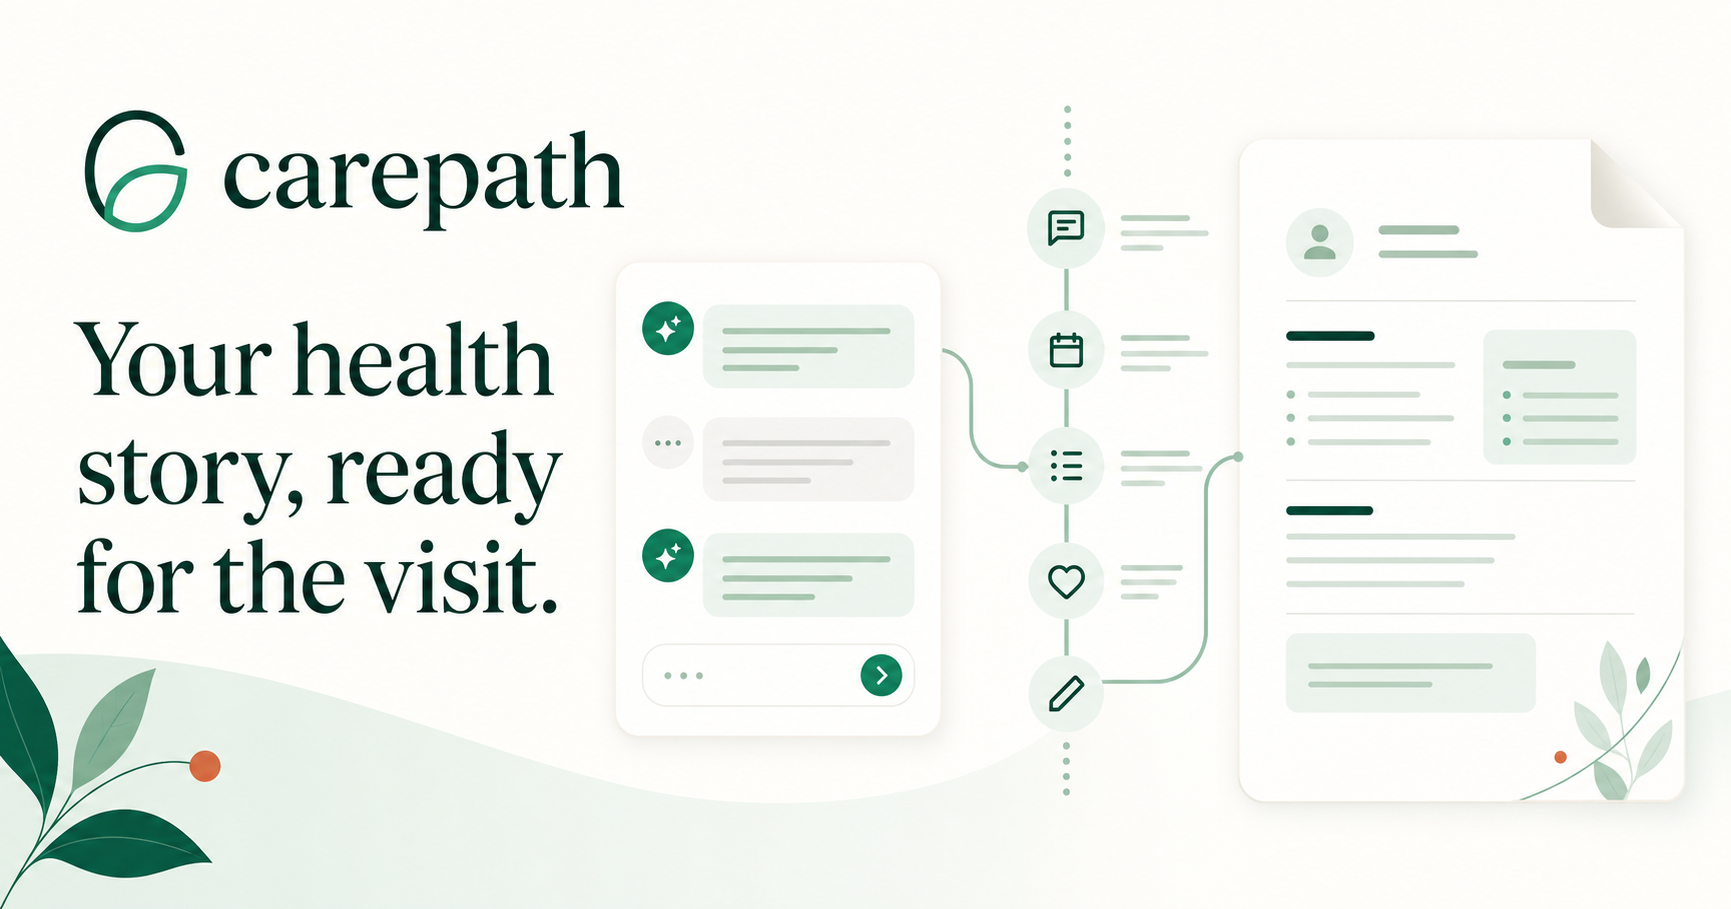
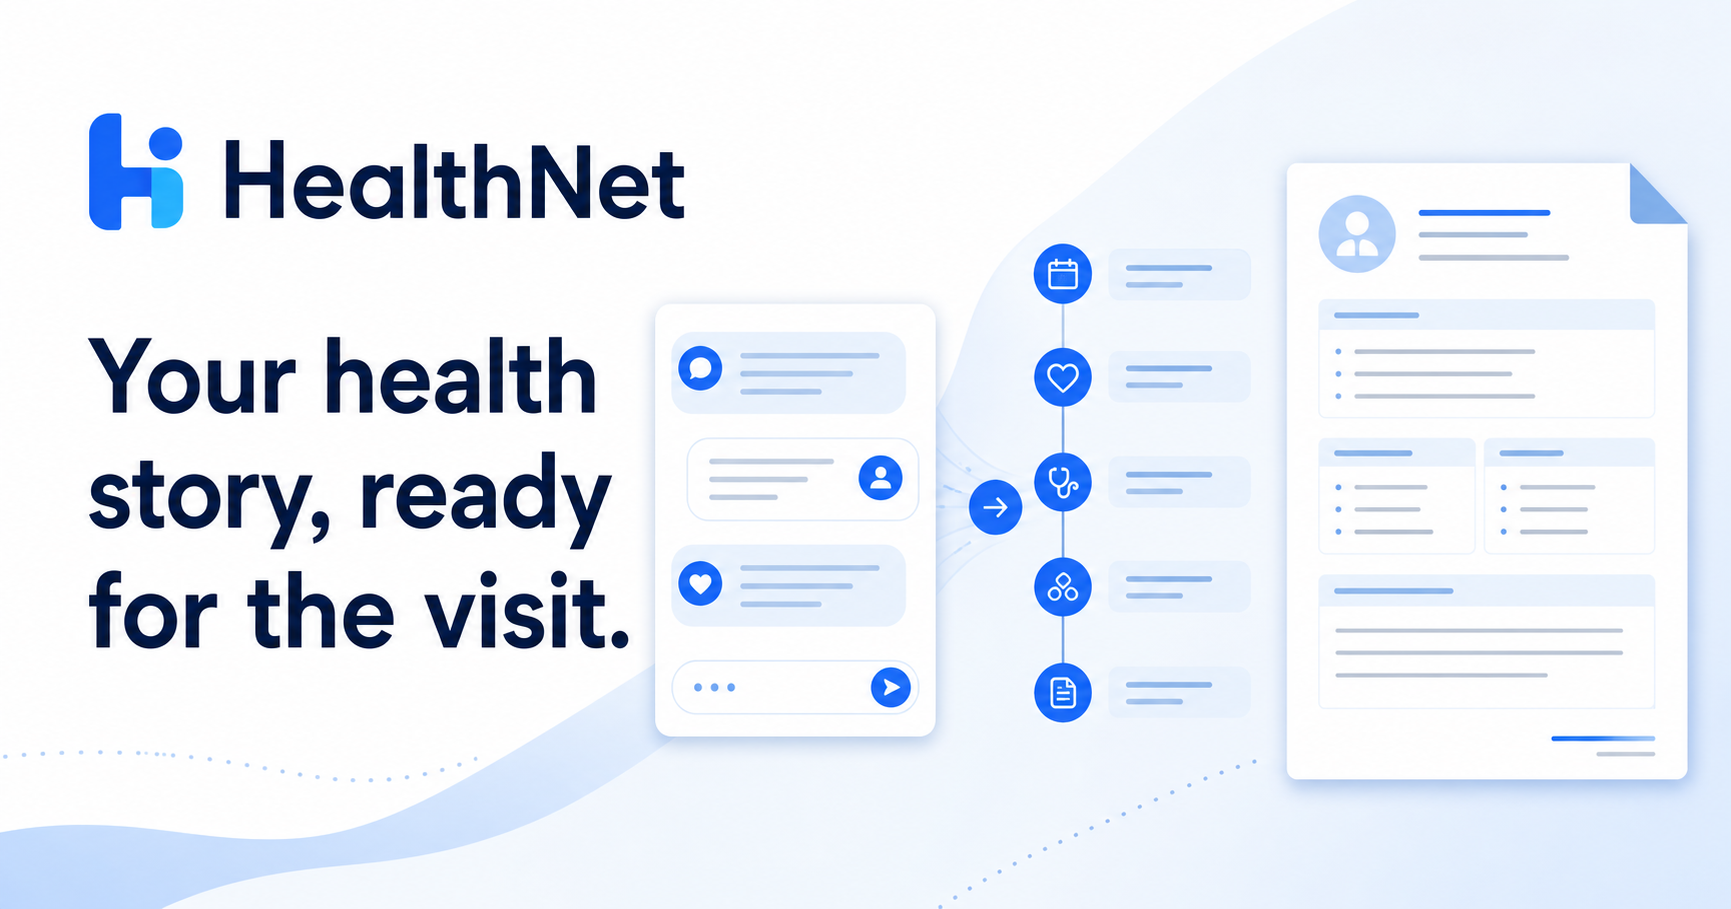
Rebrand Carepath as HealthNet

Changed region(s): [[0.3744, 0.154, 1.0, 1.0], [0.0, 0.3388, 0.5615, 1.0], [0.0312, 0.1232, 0.4055, 0.2772]]

diff --git a/app/globals.css b/app/globals.css
@@ -1,15 +1,15 @@
 @import "tailwindcss";
 
 :root {
-  --ink: #17372f;
-  --muted: #667871;
-  --line: #dde7e2;
+  --ink: #102a43;
+  --muted: #61758a;
+  --line: #dce7f3;
   --paper: #ffffff;
-  --canvas: #f4f7f5;
-  --mint: #dcefe6;
-  --green: #19715b;
-  --green-dark: #105845;
-  --orange: #e57c46;
+  --canvas: #f4f8fd;
+  --mint: #e6f0ff;
+  --green: #2563eb;
+  --green-dark: #174ea6;
+  --orange: #38bdf8;
 }
 
 * { box-sizing: border-box; }
@@ -26,7 +26,7 @@ button { color: inherit; }
 .nav-label { margin: 0 12px 9px; color: #95a39e; font-size: 10px; letter-spacing: 1.3px; font-weight: 700; text-transform: uppercase; }
 .coming-label { margin-top: 25px; }
 .main-nav button { height: 44px; border: 0; background: transparent; border-radius: 10px; display: flex; align-items: center; gap: 12px; padding: 0 12px; font-size: 13px; font-weight: 590; color: #536861; cursor: pointer; text-align: left; }
-.main-nav button:hover:not(:disabled) { background: #eef5f1; }
+.main-nav button:hover:not(:disabled) { background: #edf4ff; }
 .main-nav button.active { color: var(--green-dark); background: var(--mint); font-weight: 700; }
 .main-nav button:disabled { color: #aab5b1; cursor: default; }
 .nav-icon { width: 20px; height: 20px; display: grid; place-items: center; font-size: 17px; font-weight: 500; }
@@ -35,7 +35,7 @@ button { color: inherit; }
 .privacy-note strong { font-size: 11px; display: block; }
 .privacy-note p { font-size: 10px; line-height: 1.45; color: var(--muted); margin: 3px 0 0; }
 .profile { display: flex; align-items: center; gap: 9px; margin-top: 13px; padding: 13px 7px 2px; border-top: 1px solid var(--line); }
-.avatar { width: 33px; height: 33px; border-radius: 50%; display: grid; place-items: center; background: #eadfd7; color: #79513d; font-size: 11px; font-weight: 700; }
+.avatar { width: 33px; height: 33px; border-radius: 50%; display: grid; place-items: center; background: #dceafe; color: #2457a7; font-size: 11px; font-weight: 700; }
 .profile div:nth-child(2) { min-width: 0; flex: 1; }
 .profile strong, .profile span { display: block; white-space: nowrap; overflow: hidden; text-overflow: ellipsis; }
 .profile strong { font-size: 11px; }.profile span { color: #8b9994; font-size: 9px; margin-top: 2px; }
@@ -64,12 +64,12 @@ button { color: inherit; }
 .conversation-card, .timeline-card { background: white; border: 1px solid var(--line); border-radius: 15px; box-shadow: 0 8px 32px rgba(36,67,56,.05); min-height: 570px; overflow: hidden; }
 .conversation-card { display: flex; flex-direction: column; }
 .conversation-header { height: 65px; padding: 0 18px; border-bottom: 1px solid #edf1ef; display: flex; align-items: center; gap: 11px; }
-.ai-orb { width: 34px; height: 34px; background: #e2f1e9; border-radius: 12px 12px 12px 4px; display: grid; place-items: center; }
+.ai-orb { width: 34px; height: 34px; background: #eaf2ff; border-radius: 12px 12px 12px 4px; display: grid; place-items: center; }
 .ai-orb span { width: 12px; height: 12px; border-radius: 50%; border: 3px solid var(--green); border-left-color: #75af9e; }
 .conversation-header > div:nth-child(2) { flex: 1; }
 .conversation-header strong, .conversation-header span { display: block; }
 .conversation-header strong { font-size: 12px; }.conversation-header span { margin-top: 3px; color: #8a9893; font-size: 9px; }
-.conversation-header span i { display: inline-block; width: 5px; height: 5px; background: #42a27f; border-radius: 50%; margin-right: 4px; }
+.conversation-header span i { display: inline-block; width: 5px; height: 5px; background: #3b82f6; border-radius: 50%; margin-right: 4px; }
 .conversation-header button { border: 0; background: none; color: #89958f; cursor: pointer; }
 .messages { flex: 1; padding: 17px 21px 24px; overflow: auto; max-height: 430px; }
 .date-divider { text-align: center; position: relative; margin: 0 0 18px; }
@@ -78,11 +78,11 @@ button { color: inherit; }
 .message-row { display: flex; gap: 8px; margin: 12px 0; align-items: flex-start; }
 .message-row.patient { justify-content: flex-end; }
 .mini-orb { flex: 0 0 24px; width: 24px; height: 24px; display: grid; place-items: center; background: var(--green); color: white; border-radius: 8px 8px 8px 3px; font-size: 9px; font-weight: 700; }
-.message-bubble { max-width: 78%; padding: 10px 13px; border-radius: 5px 13px 13px 13px; background: #f0f5f2; font-size: 11px; line-height: 1.5; color: #355149; }
+.message-bubble { max-width: 78%; padding: 10px 13px; border-radius: 5px 13px 13px 13px; background: #f0f5fb; font-size: 11px; line-height: 1.5; color: #314e68; }
 .patient .message-bubble { border-radius: 13px 5px 13px 13px; background: var(--green); color: white; }
-.insight-card { margin: 18px 32px 5px; border: 1px solid #cfe5da; background: #f3faf6; border-radius: 10px; padding: 11px; display: flex; gap: 9px; }
+.insight-card { margin: 18px 32px 5px; border: 1px solid #cfe0ff; background: #f4f8ff; border-radius: 10px; padding: 11px; display: flex; gap: 9px; }
 .insight-card > span { width: 20px; height: 20px; border-radius: 50%; display: grid; place-items: center; background: var(--mint); color: var(--green); font-size: 10px; }
-.insight-card strong { display: block; font-size: 10px; }.insight-card p { color: #61766e; font-size: 9px; line-height: 1.5; margin: 3px 0 0; }
+.insight-card strong { display: block; font-size: 10px; }.insight-card p { color: #5f7590; font-size: 9px; line-height: 1.5; margin: 3px 0 0; }
 .composer { padding: 14px 18px 13px; border-top: 1px solid #e9efec; background: #fbfcfc; }
 .composer label { position: absolute; width: 1px; height: 1px; overflow: hidden; }
 .composer > div { display: flex; align-items: flex-end; background: white; border: 1px solid #cfdcd6; border-radius: 10px; padding: 7px 7px 7px 12px; box-shadow: 0 2px 8px rgba(32,69,55,.04); }
@@ -94,17 +94,17 @@ button { color: inherit; }
 .timeline-card { display: flex; flex-direction: column; }
 .timeline-header { padding: 18px 19px 15px; display: flex; align-items: flex-start; justify-content: space-between; border-bottom: 1px solid #edf1ef; }
 .timeline-header h2 { font-family: Georgia, serif; font-size: 18px; font-weight: 500; margin: 0; }
-.timeline-header > span { padding: 5px 8px; border-radius: 12px; background: #f0f5f2; color: #698078; font-size: 8px; }
+.timeline-header > span { padding: 5px 8px; border-radius: 12px; background: #eff5fb; color: #6a7f95; font-size: 8px; }
 .empty-timeline { margin: auto; padding: 30px 55px 75px; text-align: center; }
 .timeline-illustration { width: 70px; height: 90px; margin: 0 auto 19px; position: relative; }
 .timeline-illustration::before { content: ""; position: absolute; top: 8px; bottom: 8px; left: 50%; width: 2px; background: #d7e6df; }
 .timeline-illustration span, .timeline-illustration i, .timeline-illustration b { position: absolute; left: calc(50% - 7px); width: 14px; height: 14px; border: 3px solid white; border-radius: 50%; box-shadow: 0 0 0 1px #b8d1c6; background: var(--mint); }
-.timeline-illustration span { top: 5px; }.timeline-illustration i { top: 38px; background: #8fc2af; }.timeline-illustration b { bottom: 5px; background: var(--green); }
+.timeline-illustration span { top: 5px; }.timeline-illustration i { top: 38px; background: #8ab6f9; }.timeline-illustration b { bottom: 5px; background: var(--green); }
 .empty-timeline h3 { font-family: Georgia, serif; font-size: 16px; font-weight: 500; margin: 0; }.empty-timeline p { font-size: 10px; line-height: 1.55; color: #7d8d87; }
 .timeline-list { padding: 22px 20px 10px; flex: 1; overflow: auto; max-height: 455px; }
 .timeline-item { display: flex; gap: 13px; min-height: 92px; }
 .timeline-rail { width: 24px; flex: 0 0 24px; position: relative; display: flex; justify-content: center; }
-.timeline-rail span { position: relative; z-index: 1; width: 23px; height: 23px; border-radius: 50%; display: grid; place-items: center; background: var(--mint); border: 1px solid #b9d7c9; color: var(--green-dark); font-size: 8px; font-weight: 700; }
+.timeline-rail span { position: relative; z-index: 1; width: 23px; height: 23px; border-radius: 50%; display: grid; place-items: center; background: var(--mint); border: 1px solid #bad1f5; color: var(--green-dark); font-size: 8px; font-weight: 700; }
 .timeline-rail i { position: absolute; width: 1px; background: #c9ddd4; top: 23px; bottom: 0; }
 .timeline-content { position: relative; flex: 1; padding: 0 30px 16px 0; }
 .timeline-content > span { display: block; color: var(--green); text-transform: uppercase; letter-spacing: .7px; font-size: 8px; font-weight: 750; margin: 2px 0 4px; }
@@ -117,19 +117,19 @@ button { color: inherit; }
 
 .progress-panel { position: relative; margin-top: 17px; background: white; border: 1px solid var(--line); border-radius: 12px; padding: 13px 205px 13px 17px; box-shadow: 0 6px 22px rgba(36,67,56,.04); }
 .progress-panel > div:first-child { display: flex; justify-content: space-between; margin-bottom: 8px; }.progress-panel strong { font-size: 10px; }.progress-panel span { color: #819089; font-size: 9px; }
-.progress-track { height: 5px; background: #edf2ef; border-radius: 4px; overflow: hidden; }.progress-track span { display: block; height: 100%; background: linear-gradient(90deg, #74b39f, var(--green)); border-radius: inherit; transition: width .3s ease; }
+.progress-track { height: 5px; background: #edf2f7; border-radius: 4px; overflow: hidden; }.progress-track span { display: block; height: 100%; background: linear-gradient(90deg, #8bb8ff, var(--green)); border-radius: inherit; transition: width .3s ease; }
 .progress-panel button { position: absolute; right: 13px; top: 13px; bottom: 13px; width: 173px; border: 0; border-radius: 8px; color: white; background: var(--green); font-size: 10px; font-weight: 700; cursor: pointer; }.progress-panel button span { color: white; margin-left: 8px; }.progress-panel button:disabled { background: #d9e1dd; cursor: not-allowed; }
 
 .review-page { max-width: 980px; }
 .review-badge { align-self: center; padding: 7px 10px; border-radius: 20px; background: #fff4e9; color: #9b562f; font-size: 9px; font-weight: 700; }
-.review-grid { display: grid; grid-template-columns: 1fr 1fr; gap: 16px; }.review-section { background: white; border: 1px solid var(--line); border-radius: 14px; padding: 21px; min-height: 170px; }.review-section.full { grid-column: 1 / -1; }.section-heading { display: flex; justify-content: space-between; align-items: center; border-bottom: 1px solid #edf1ef; padding-bottom: 13px; margin-bottom: 16px; }.section-heading > div { display: flex; align-items: center; gap: 9px; }.section-heading span { width: 24px; height: 24px; border-radius: 7px; display: grid; place-items: center; background: var(--mint); color: var(--green); font-size: 8px; font-weight: 750; }.section-heading h2 { margin: 0; font-family: Georgia, serif; font-size: 17px; font-weight: 500; }.section-heading button { border: 0; background: none; color: var(--green); font-size: 9px; font-weight: 700; cursor: pointer; }.lead-answer { font-family: Georgia, serif; font-size: 18px; line-height: 1.55; margin: 0; }.answer-list { margin: 0; padding: 0 0 0 18px; color: #596e66; font-size: 10px; line-height: 1.55; }.answer-list li { margin-bottom: 7px; }.muted { color: #8a9993; font-size: 11px; }.compact-timeline { display: grid; grid-template-columns: repeat(4, 1fr); gap: 12px; }.compact-timeline > div { border-left: 2px solid #b9d7c9; padding-left: 11px; }.compact-timeline strong, .compact-timeline span { display: block; }.compact-timeline strong { color: var(--green); font-size: 8px; text-transform: uppercase; }.compact-timeline span { font-size: 10px; font-weight: 700; margin-top: 5px; }.compact-timeline p { color: #72847d; font-size: 9px; line-height: 1.4; margin: 3px 0 0; }.review-actions { margin-top: 18px; display: flex; justify-content: space-between; }
+.review-grid { display: grid; grid-template-columns: 1fr 1fr; gap: 16px; }.review-section { background: white; border: 1px solid var(--line); border-radius: 14px; padding: 21px; min-height: 170px; }.review-section.full { grid-column: 1 / -1; }.section-heading { display: flex; justify-content: space-between; align-items: center; border-bottom: 1px solid #e8eef6; padding-bottom: 13px; margin-bottom: 16px; }.section-heading > div { display: flex; align-items: center; gap: 9px; }.section-heading span { width: 24px; height: 24px; border-radius: 7px; display: grid; place-items: center; background: var(--mint); color: var(--green); font-size: 8px; font-weight: 750; }.section-heading h2 { margin: 0; font-family: Georgia, serif; font-size: 17px; font-weight: 500; }.section-heading button { border: 0; background: none; color: var(--green); font-size: 9px; font-weight: 700; cursor: pointer; }.lead-answer { font-family: Georgia, serif; font-size: 18px; line-height: 1.55; margin: 0; }.answer-list { margin: 0; padding: 0 0 0 18px; color: #526a82; font-size: 10px; line-height: 1.55; }.answer-list li { margin-bottom: 7px; }.muted { color: #8496a8; font-size: 11px; }.compact-timeline { display: grid; grid-template-columns: repeat(4, 1fr); gap: 12px; }.compact-timeline > div { border-left: 2px solid #bad1f5; padding-left: 11px; }.compact-timeline strong, .compact-timeline span { display: block; }.compact-timeline strong { color: var(--green); font-size: 8px; text-transform: uppercase; }.compact-timeline span { font-size: 10px; font-weight: 700; margin-top: 5px; }.compact-timeline p { color: #6b8095; font-size: 9px; line-height: 1.4; margin: 3px 0 0; }.review-actions { margin-top: 18px; display: flex; justify-content: space-between; }
 .primary-button, .secondary-button { border-radius: 9px; padding: 10px 15px; font-size: 10px; font-weight: 700; cursor: pointer; }.primary-button { background: var(--green); border: 1px solid var(--green); color: white; }.secondary-button { background: white; border: 1px solid #ccd9d3; color: var(--green-dark); }
 
 .summary-page { max-width: 1020px; }.summary-toolbar { display: flex; justify-content: space-between; align-items: flex-end; margin-bottom: 24px; }.summary-toolbar > div:last-child { display: flex; gap: 8px; }
 .clinical-summary { background: white; border: 1px solid #d5dfda; box-shadow: 0 14px 42px rgba(31,61,51,.08); padding: 34px 39px 22px; min-height: 950px; }
 .document-header { display: flex; justify-content: space-between; align-items: center; border-bottom: 2px solid var(--ink); padding-bottom: 15px; }.document-header > div:first-child { display: flex; align-items: center; gap: 10px; }.document-logo { width: 32px; height: 32px; border-radius: 9px 9px 9px 3px; display: grid; place-items: center; background: var(--green); color: white; font-weight: 750; }.document-header strong, .document-header p { display: block; margin: 0; }.document-header strong { font-size: 15px; }.document-header p { color: #6f817a; font-size: 9px; margin-top: 2px; }.document-meta { text-align: right; }.document-meta span { display: block; color: #778780; font-size: 8px; text-transform: uppercase; letter-spacing: .8px; }.document-meta strong { font-size: 10px; margin-top: 3px; }
-.patient-strip { display: grid; grid-template-columns: 1.2fr .7fr 1fr 1.2fr; background: #f1f6f3; border-bottom: 1px solid #d9e4df; padding: 12px 15px; }.patient-strip div { border-right: 1px solid #d6e1dc; padding: 0 13px; }.patient-strip div:first-child { padding-left: 0; }.patient-strip div:last-child { border: 0; }.patient-strip span, .patient-strip strong { display: block; }.patient-strip span, .section-kicker { color: #72837c; font-size: 7px; font-weight: 750; letter-spacing: .8px; }.patient-strip strong { font-size: 10px; margin-top: 3px; }
-.document-section { padding: 17px 0; border-bottom: 1px solid #e2e9e6; }.document-section.priority { background: #f8fbf9; margin: 0 -15px; padding: 16px 15px; }.document-section.priority h2 { margin: 5px 0 0; font-family: Georgia, serif; font-size: 16px; line-height: 1.45; font-weight: 500; }.section-kicker { margin: 0; color: var(--green); }.document-columns { display: grid; grid-template-columns: 1.35fr .8fr; gap: 32px; }.document-columns > aside { border-left: 1px solid #dfe7e3; padding-left: 25px; }.document-section > p:not(.section-kicker) { color: #455b53; font-size: 9px; line-height: 1.6; margin: 7px 0 0; }.document-timeline { margin-top: 10px; }.document-timeline > div { position: relative; padding: 0 0 11px 14px; border-left: 1px solid #bcd4c9; }.document-timeline > div::before { content: ""; position: absolute; left: -4px; top: 1px; width: 7px; height: 7px; border-radius: 50%; background: var(--green); border: 2px solid white; box-shadow: 0 0 0 1px var(--green); }.document-timeline span { color: var(--green); font-size: 7px; font-weight: 700; text-transform: uppercase; }.document-timeline p { margin: 2px 0 0; font-size: 8px; color: #60736c; line-height: 1.4; }.fact-grid { display: grid; grid-template-columns: 1fr 1fr; gap: 8px 14px; margin-top: 10px; }.fact-grid div { padding: 7px 9px; background: #f6f9f7; border-radius: 5px; }.fact-grid span, .fact-grid strong { display: block; }.fact-grid span { color: #809089; font-size: 7px; }.fact-grid strong { font-size: 8px; margin-top: 2px; }
+.patient-strip { display: grid; grid-template-columns: 1.2fr .7fr 1fr 1.2fr; background: #f1f6fc; border-bottom: 1px solid #d9e4f0; padding: 12px 15px; }.patient-strip div { border-right: 1px solid #d6e1ec; padding: 0 13px; }.patient-strip div:first-child { padding-left: 0; }.patient-strip div:last-child { border: 0; }.patient-strip span, .patient-strip strong { display: block; }.patient-strip span, .section-kicker { color: #6d8196; font-size: 7px; font-weight: 750; letter-spacing: .8px; }.patient-strip strong { font-size: 10px; margin-top: 3px; }
+.document-section { padding: 17px 0; border-bottom: 1px solid #e2e9f1; }.document-section.priority { background: #f7faff; margin: 0 -15px; padding: 16px 15px; }.document-section.priority h2 { margin: 5px 0 0; font-family: Georgia, serif; font-size: 16px; line-height: 1.45; font-weight: 500; }.section-kicker { margin: 0; color: var(--green); }.document-columns { display: grid; grid-template-columns: 1.35fr .8fr; gap: 32px; }.document-columns > aside { border-left: 1px solid #dfe7f0; padding-left: 25px; }.document-section > p:not(.section-kicker) { color: #405a73; font-size: 9px; line-height: 1.6; margin: 7px 0 0; }.document-timeline { margin-top: 10px; }.document-timeline > div { position: relative; padding: 0 0 11px 14px; border-left: 1px solid #bcd1ef; }.document-timeline > div::before { content: ""; position: absolute; left: -4px; top: 1px; width: 7px; height: 7px; border-radius: 50%; background: var(--green); border: 2px solid white; box-shadow: 0 0 0 1px var(--green); }.document-timeline span { color: var(--green); font-size: 7px; font-weight: 700; text-transform: uppercase; }.document-timeline p { margin: 2px 0 0; font-size: 8px; color: #5f748a; line-height: 1.4; }.fact-grid { display: grid; grid-template-columns: 1fr 1fr; gap: 8px 14px; margin-top: 10px; }.fact-grid div { padding: 7px 9px; background: #f5f8fc; border-radius: 5px; }.fact-grid span, .fact-grid strong { display: block; }.fact-grid span { color: #7b8ea1; font-size: 7px; }.fact-grid strong { font-size: 8px; margin-top: 2px; }
 .document-section ul, .document-section ol { margin: 8px 0 0; padding-left: 16px; color: #4d625a; font-size: 8px; line-height: 1.55; }.document-section li { margin-bottom: 4px; }.considerations > div { padding: 8px 0; }.considerations > div + div { border-top: 1px dashed #d9e3de; }.considerations strong { font-size: 8px; }.considerations div p { margin: 3px 0 0; color: #667871; font-size: 7.5px; line-height: 1.45; }.document-footer { position: relative; padding-top: 13px; }.document-footer strong { font-size: 8px; }.document-footer p { color: #7a8983; font-size: 7px; margin: 3px 40px 0 0; }.document-footer > span { position: absolute; right: 0; top: 15px; font-size: 8px; color: #8a9893; }
 
 @media (max-width: 900px) {

diff --git a/app/page.tsx b/app/page.tsx
@@ -112,9 +112,9 @@ export default function Home() {
   return (
     <main className="app-shell">
       <aside className="sidebar no-print">
-        <button className="brand" onClick={() => setView("intake")} aria-label="Carepath home">
-          <span className="brand-mark">C</span>
-          <span>carepath</span>
+        <button className="brand" onClick={() => setView("intake")} aria-label="HealthNet home">
+          <span className="brand-mark">H</span>
+          <span>HealthNet</span>
         </button>
 
         <nav className="main-nav" aria-label="Primary navigation">
@@ -147,7 +147,7 @@ export default function Home() {
 
       <section className="workspace">
         <header className="topbar no-print">
-          <div className="mobile-brand"><span className="brand-mark">C</span> carepath</div>
+          <div className="mobile-brand"><span className="brand-mark">H</span> HealthNet</div>
           <div className="stepper" aria-label="Visit preparation progress">
             <button className={view === "intake" ? "current" : "done"} onClick={() => setView("intake")}><span>1</span> Intake</button>
             <i />
@@ -275,7 +275,7 @@ function SummaryView({ concern, timeline, onBack }: { concern: string; timeline:
     <div className="summary-page">
       <div className="summary-toolbar no-print"><div><p className="eyebrow">VISIT SUMMARY</p><h1>Ready for your appointment</h1><p>Print this summary or save it as a PDF to share with your physician.</p></div><div><button className="secondary-button" onClick={onBack}>Edit information</button><button className="primary-button" onClick={() => window.print()}>Print summary</button></div></div>
       <article className="clinical-summary">
-        <header className="document-header"><div><span className="document-logo">C</span><div><strong>Carepath</strong><p>Pre-Visit Patient Summary</p></div></div><div className="document-meta"><span>Prepared</span><strong>August 3, 2026</strong></div></header>
+        <header className="document-header"><div><span className="document-logo">H</span><div><strong>HealthNet</strong><p>Pre-Visit Patient Summary</p></div></div><div className="document-meta"><span>Prepared</span><strong>August 3, 2026</strong></div></header>
         <div className="patient-strip"><div><span>PATIENT</span><strong>Maya Nguyen</strong></div><div><span>AGE</span><strong>42 years</strong></div><div><span>VISIT TYPE</span><strong>Primary care</strong></div><div><span>INFORMATION SOURCE</span><strong>Patient-reported</strong></div></div>
         <section className="document-section priority"><p className="section-kicker">PRIMARY CONCERN</p><h2>{concern}</h2></section>
         <div className="document-columns">

diff --git a/app/layout.tsx b/app/layout.tsx
@@ -13,12 +13,12 @@ export async function generateMetadata(): Promise<Metadata> {
   const socialImage = `${protocol}://${host}/og.png`;
 
   return {
-    title: "Carepath — Prepare for better care",
+    title: "HealthNet — Prepare for better care",
     description: "Turn your health story into an organized, clinician-ready visit summary.",
     openGraph: {
-      title: "Carepath — Prepare for better care",
+      title: "HealthNet — Prepare for better care",
       description: "Turn your health story into an organized, clinician-ready visit summary.",
-      images: [{ url: socialImage, width: 1536, height: 1024, alt: "Carepath turns a health story into a visit summary" }],
+      images: [{ url: socialImage, width: 1536, height: 1024, alt: "HealthNet turns a health story into a visit summary" }],
     },
     twitter: { card: "summary_large_image", images: [socialImage] },
   };
